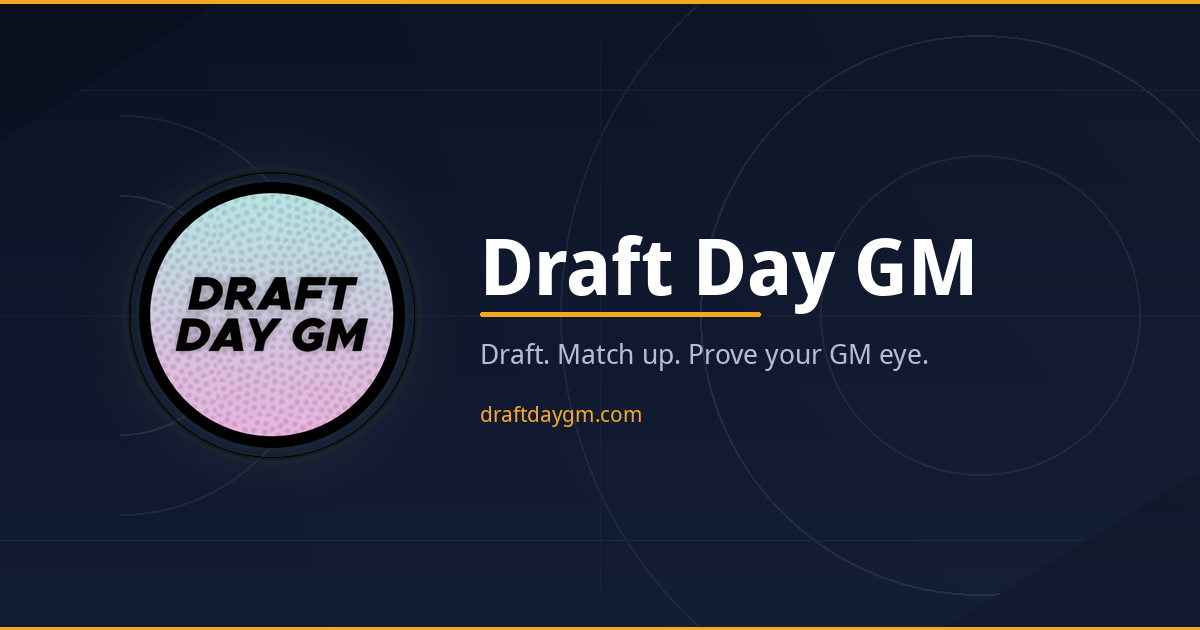
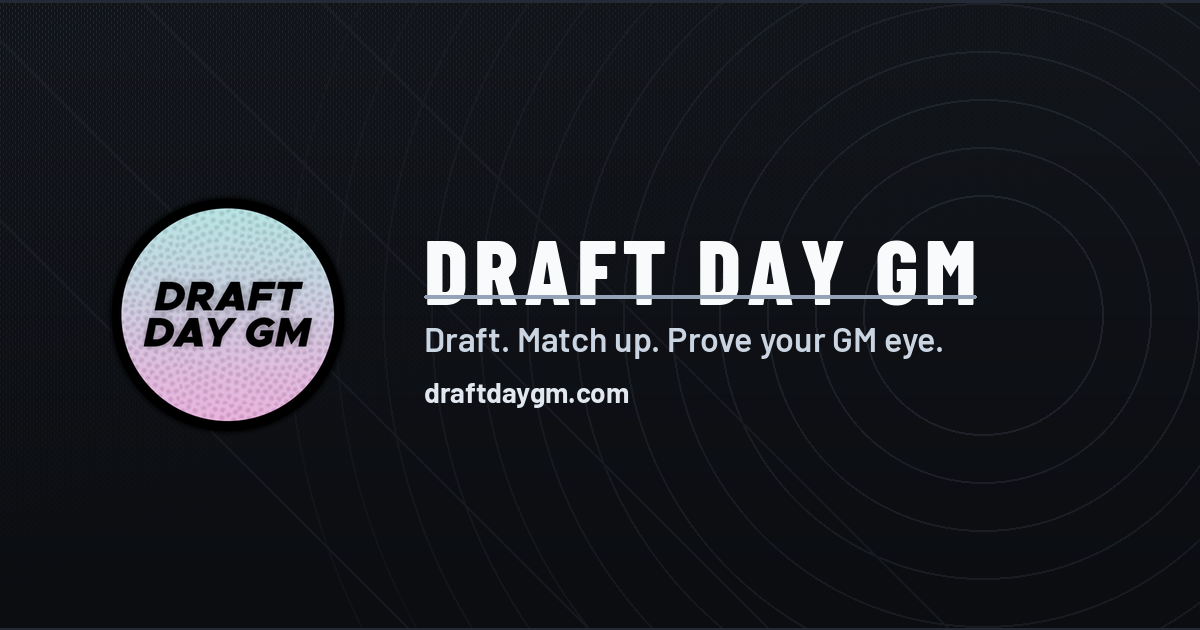
Restyle OG link preview for Barlow and dark chrome
Regenerate og-share.png without yellow accents, using Barlow /
Barlow Condensed and a blackish site-matching gradient. Add a
generator script so the asset can be rebuilt from the logo.

diff --git a/scripts/generate_og_share.py b/scripts/generate_og_share.py
@@ -1,0 +1,176 @@
+#!/usr/bin/env python3
+"""Generate public/og-share.png to match the Draft Day GM site chrome."""
+
+from __future__ import annotations
+
+import urllib.request
+from pathlib import Path
+
+from PIL import Image, ImageDraw, ImageFont
+
+ROOT = Path(__file__).resolve().parents[1]
+OUT = ROOT / "public" / "og-share.png"
+LOGO = ROOT / "public" / "draft-day-gm-logo.png"
+FONT_DIR = Path(__file__).resolve().parent / "fonts"
+
+WIDTH, HEIGHT = 1200, 630
+
+# Site tokens: page body #171b22 → #0b0d11, nudged darker for OG punch.
+BG_TOP = (18, 21, 26)  # near #12151a
+BG_BOTTOM = (11, 13, 17)  # #0b0d11
+TEXT = (248, 250, 252)  # #f8fafc
+MUTED = (203, 213, 225)  # #cbd5e1
+RULE = (148, 163, 184)  # #94a3b8
+URL = (226, 232, 240)  # #e2e8f0
+
+FONT_SOURCES = {
+    "BarlowCondensed-ExtraBold.ttf": (
+        "https://github.com/google/fonts/raw/main/ofl/barlowcondensed/"
+        "BarlowCondensed-ExtraBold.ttf"
+    ),
+    "Barlow-SemiBold.ttf": (
+        "https://github.com/google/fonts/raw/main/ofl/barlow/Barlow-SemiBold.ttf"
+    ),
+    "Barlow-Bold.ttf": (
+        "https://github.com/google/fonts/raw/main/ofl/barlow/Barlow-Bold.ttf"
+    ),
+}
+
+
+def ensure_fonts() -> dict[str, Path]:
+    FONT_DIR.mkdir(parents=True, exist_ok=True)
+    paths: dict[str, Path] = {}
+    for name, url in FONT_SOURCES.items():
+        dest = FONT_DIR / name
+        if not dest.exists() or dest.stat().st_size < 1000:
+            print(f"Downloading {name}…")
+            urllib.request.urlretrieve(url, dest)
+        paths[name] = dest
+    return paths
+
+
+def vertical_gradient(size: tuple[int, int], top: tuple[int, int, int], bottom: tuple[int, int, int]) -> Image.Image:
+    width, height = size
+    image = Image.new("RGB", size, top)
+    pixels = image.load()
+    assert pixels is not None
+    for y in range(height):
+        t = y / max(height - 1, 1)
+        color = tuple(int(a + (b - a) * t) for a, b in zip(top, bottom))
+        for x in range(width):
+            pixels[x, y] = color
+    return image
+
+
+def add_site_texture(image: Image.Image) -> None:
+    """Subtle dotted sheen similar to hub chrome / tier chips."""
+    overlay = Image.new("RGBA", image.size, (0, 0, 0, 0))
+    draw = ImageDraw.Draw(overlay)
+    width, height = image.size
+
+    # Soft cool sheen from upper-left.
+    for y in range(height):
+        for x in range(0, width, 3):
+            dx = x / width
+            dy = y / height
+            strength = max(0.0, 0.10 - 0.14 * (dx * 0.55 + dy * 0.7))
+            if strength <= 0:
+                continue
+            alpha = int(255 * strength)
+            if (x // 3 + y // 3) % 2 == 0:
+                draw.point((x, y), fill=(186, 200, 220, alpha))
+
+    # Concentric arcs (kept quiet; no yellow accents).
+    cx, cy = int(width * 0.82), int(height * 0.5)
+    for radius in range(120, 720, 48):
+        alpha = max(10, 34 - radius // 28)
+        draw.ellipse(
+            (cx - radius, cy - radius, cx + radius, cy + radius),
+            outline=(148, 163, 184, alpha),
+            width=2,
+        )
+
+    # Diagonal hairlines.
+    for offset in (-220, -40, 140, 320):
+        draw.line(
+            (offset, 0, offset + height, height),
+            fill=(148, 163, 184, 18),
+            width=2,
+        )
+
+    base = image.convert("RGBA")
+    composed = Image.alpha_composite(base, overlay)
+    image.paste(composed.convert("RGB"))
+
+
+def load_font(path: Path, size: int) -> ImageFont.FreeTypeFont:
+    return ImageFont.truetype(str(path), size=size)
+
+
+def main() -> None:
+    fonts = ensure_fonts()
+    title_font = load_font(fonts["BarlowCondensed-ExtraBold.ttf"], 92)
+    tagline_font = load_font(fonts["Barlow-SemiBold.ttf"], 34)
+    url_font = load_font(fonts["Barlow-Bold.ttf"], 28)
+
+    image = vertical_gradient((WIDTH, HEIGHT), BG_TOP, BG_BOTTOM)
+    add_site_texture(image)
+    draw = ImageDraw.Draw(image)
+
+    logo = Image.open(LOGO).convert("RGBA")
+    logo_size = 280
+    logo = logo.resize((logo_size, logo_size), Image.Resampling.LANCZOS)
+    logo_x, logo_y = 88, (HEIGHT - logo_size) // 2
+    image.paste(logo, (logo_x, logo_y), logo)
+
+    text_x = logo_x + logo_size + 56
+    title = "DRAFT DAY GM"
+    tagline = "Draft. Match up. Prove your GM eye."
+    url = "draftdaygm.com"
+
+    title_bbox = draw.textbbox((0, 0), title, font=title_font)
+    title_h = title_bbox[3] - title_bbox[1]
+    tag_bbox = draw.textbbox((0, 0), tagline, font=tagline_font)
+    tag_h = tag_bbox[3] - tag_bbox[1]
+    url_bbox = draw.textbbox((0, 0), url, font=url_font)
+    url_h = url_bbox[3] - url_bbox[1]
+
+    gap_title_rule = 16
+    gap_rule_tag = 20
+    gap_tag_url = 26
+    rule_h = 3
+    block_h = title_h + gap_title_rule + rule_h + gap_rule_tag + tag_h + gap_tag_url + url_h
+    y = (HEIGHT - block_h) // 2 - 8
+
+    # Open tracking to match hub title treatment.
+    title_tracking = 6
+    cursor_x = text_x
+    for index, char in enumerate(title):
+        draw.text((cursor_x, y), char, font=title_font, fill=TEXT)
+        char_w = draw.textbbox((0, 0), char, font=title_font)[2]
+        cursor_x += char_w + (title_tracking if index < len(title) - 1 else 0)
+    tracked_title_w = cursor_x - text_x
+    y += title_h + gap_title_rule
+
+    draw.rounded_rectangle(
+        (text_x, y, text_x + tracked_title_w, y + rule_h),
+        radius=1,
+        fill=RULE,
+    )
+    y += rule_h + gap_rule_tag
+
+    draw.text((text_x, y), tagline, font=tagline_font, fill=MUTED)
+    y += tag_h + gap_tag_url
+    draw.text((text_x, y), url, font=url_font, fill=URL)
+
+    # Quiet slate edge lines instead of yellow top bar.
+    draw.rectangle((0, 0, WIDTH, 2), fill=(36, 42, 54))
+    draw.rectangle((0, HEIGHT - 2, WIDTH, HEIGHT), fill=(36, 42, 54))
+
+    OUT.parent.mkdir(parents=True, exist_ok=True)
+    image.save(OUT, format="PNG", optimize=True)
+    print(f"Wrote {OUT} ({OUT.stat().st_size} bytes)")
+
+
+if __name__ == "__main__":
+    main()
